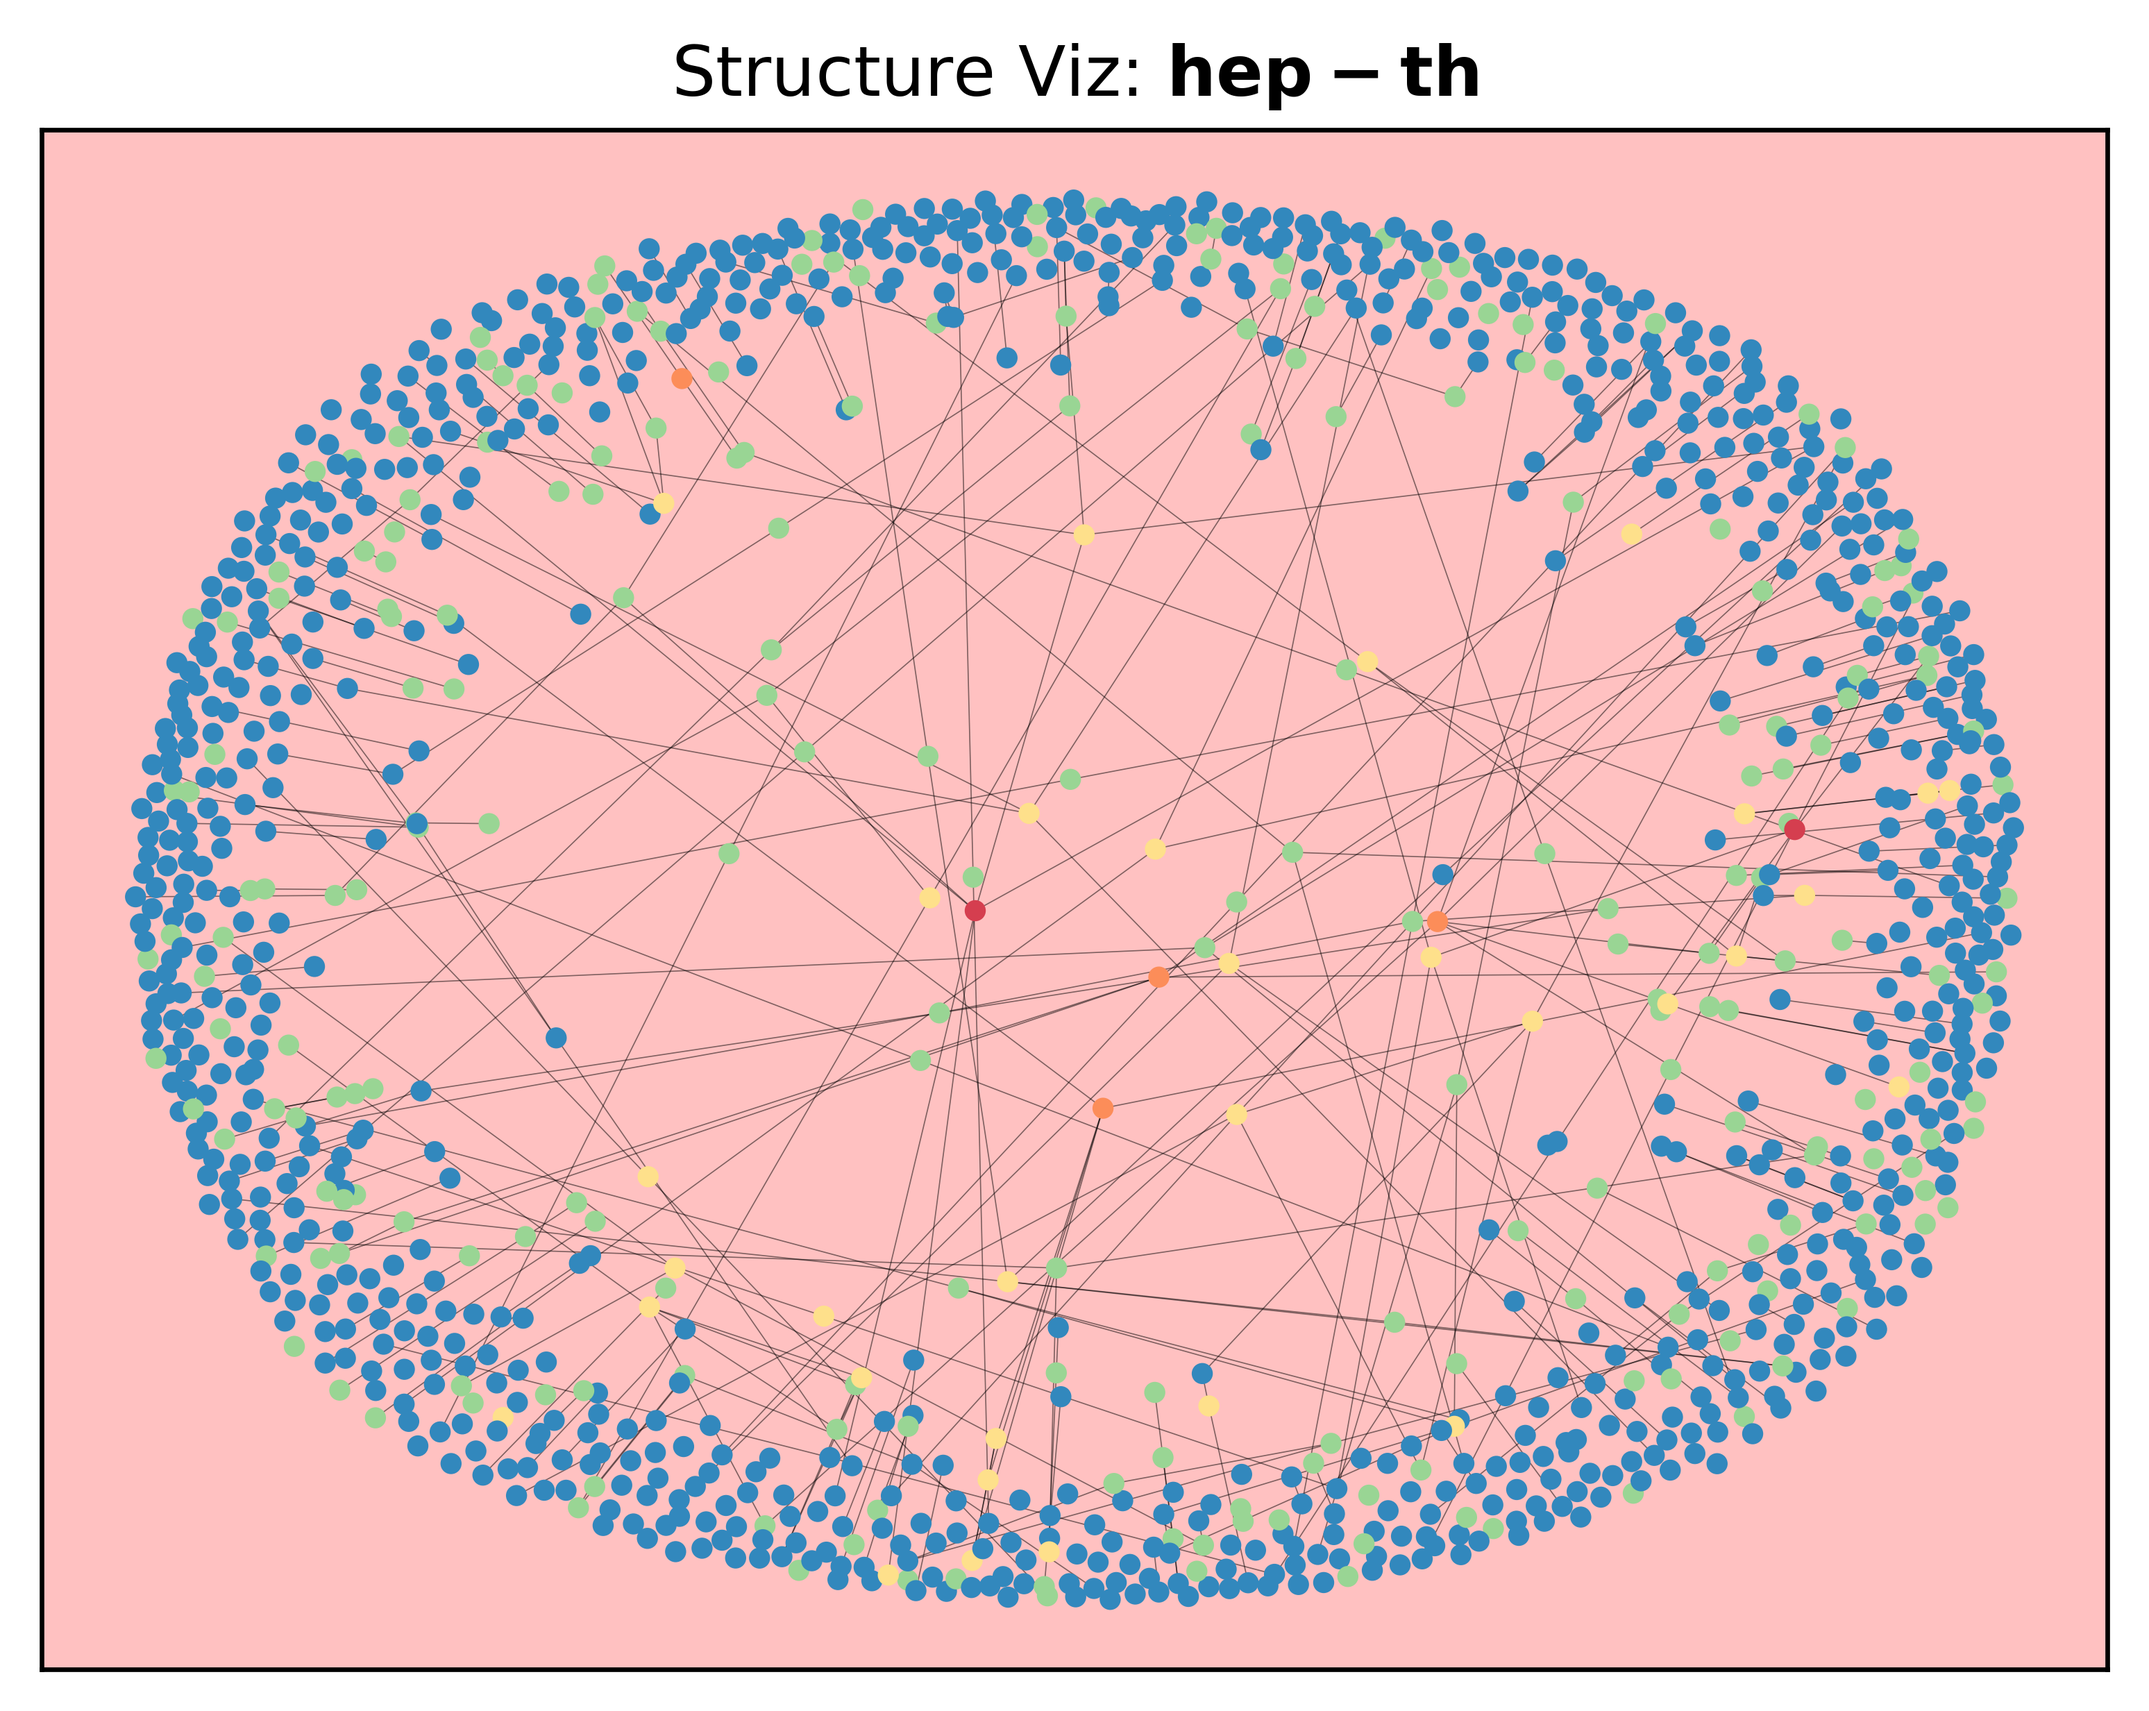
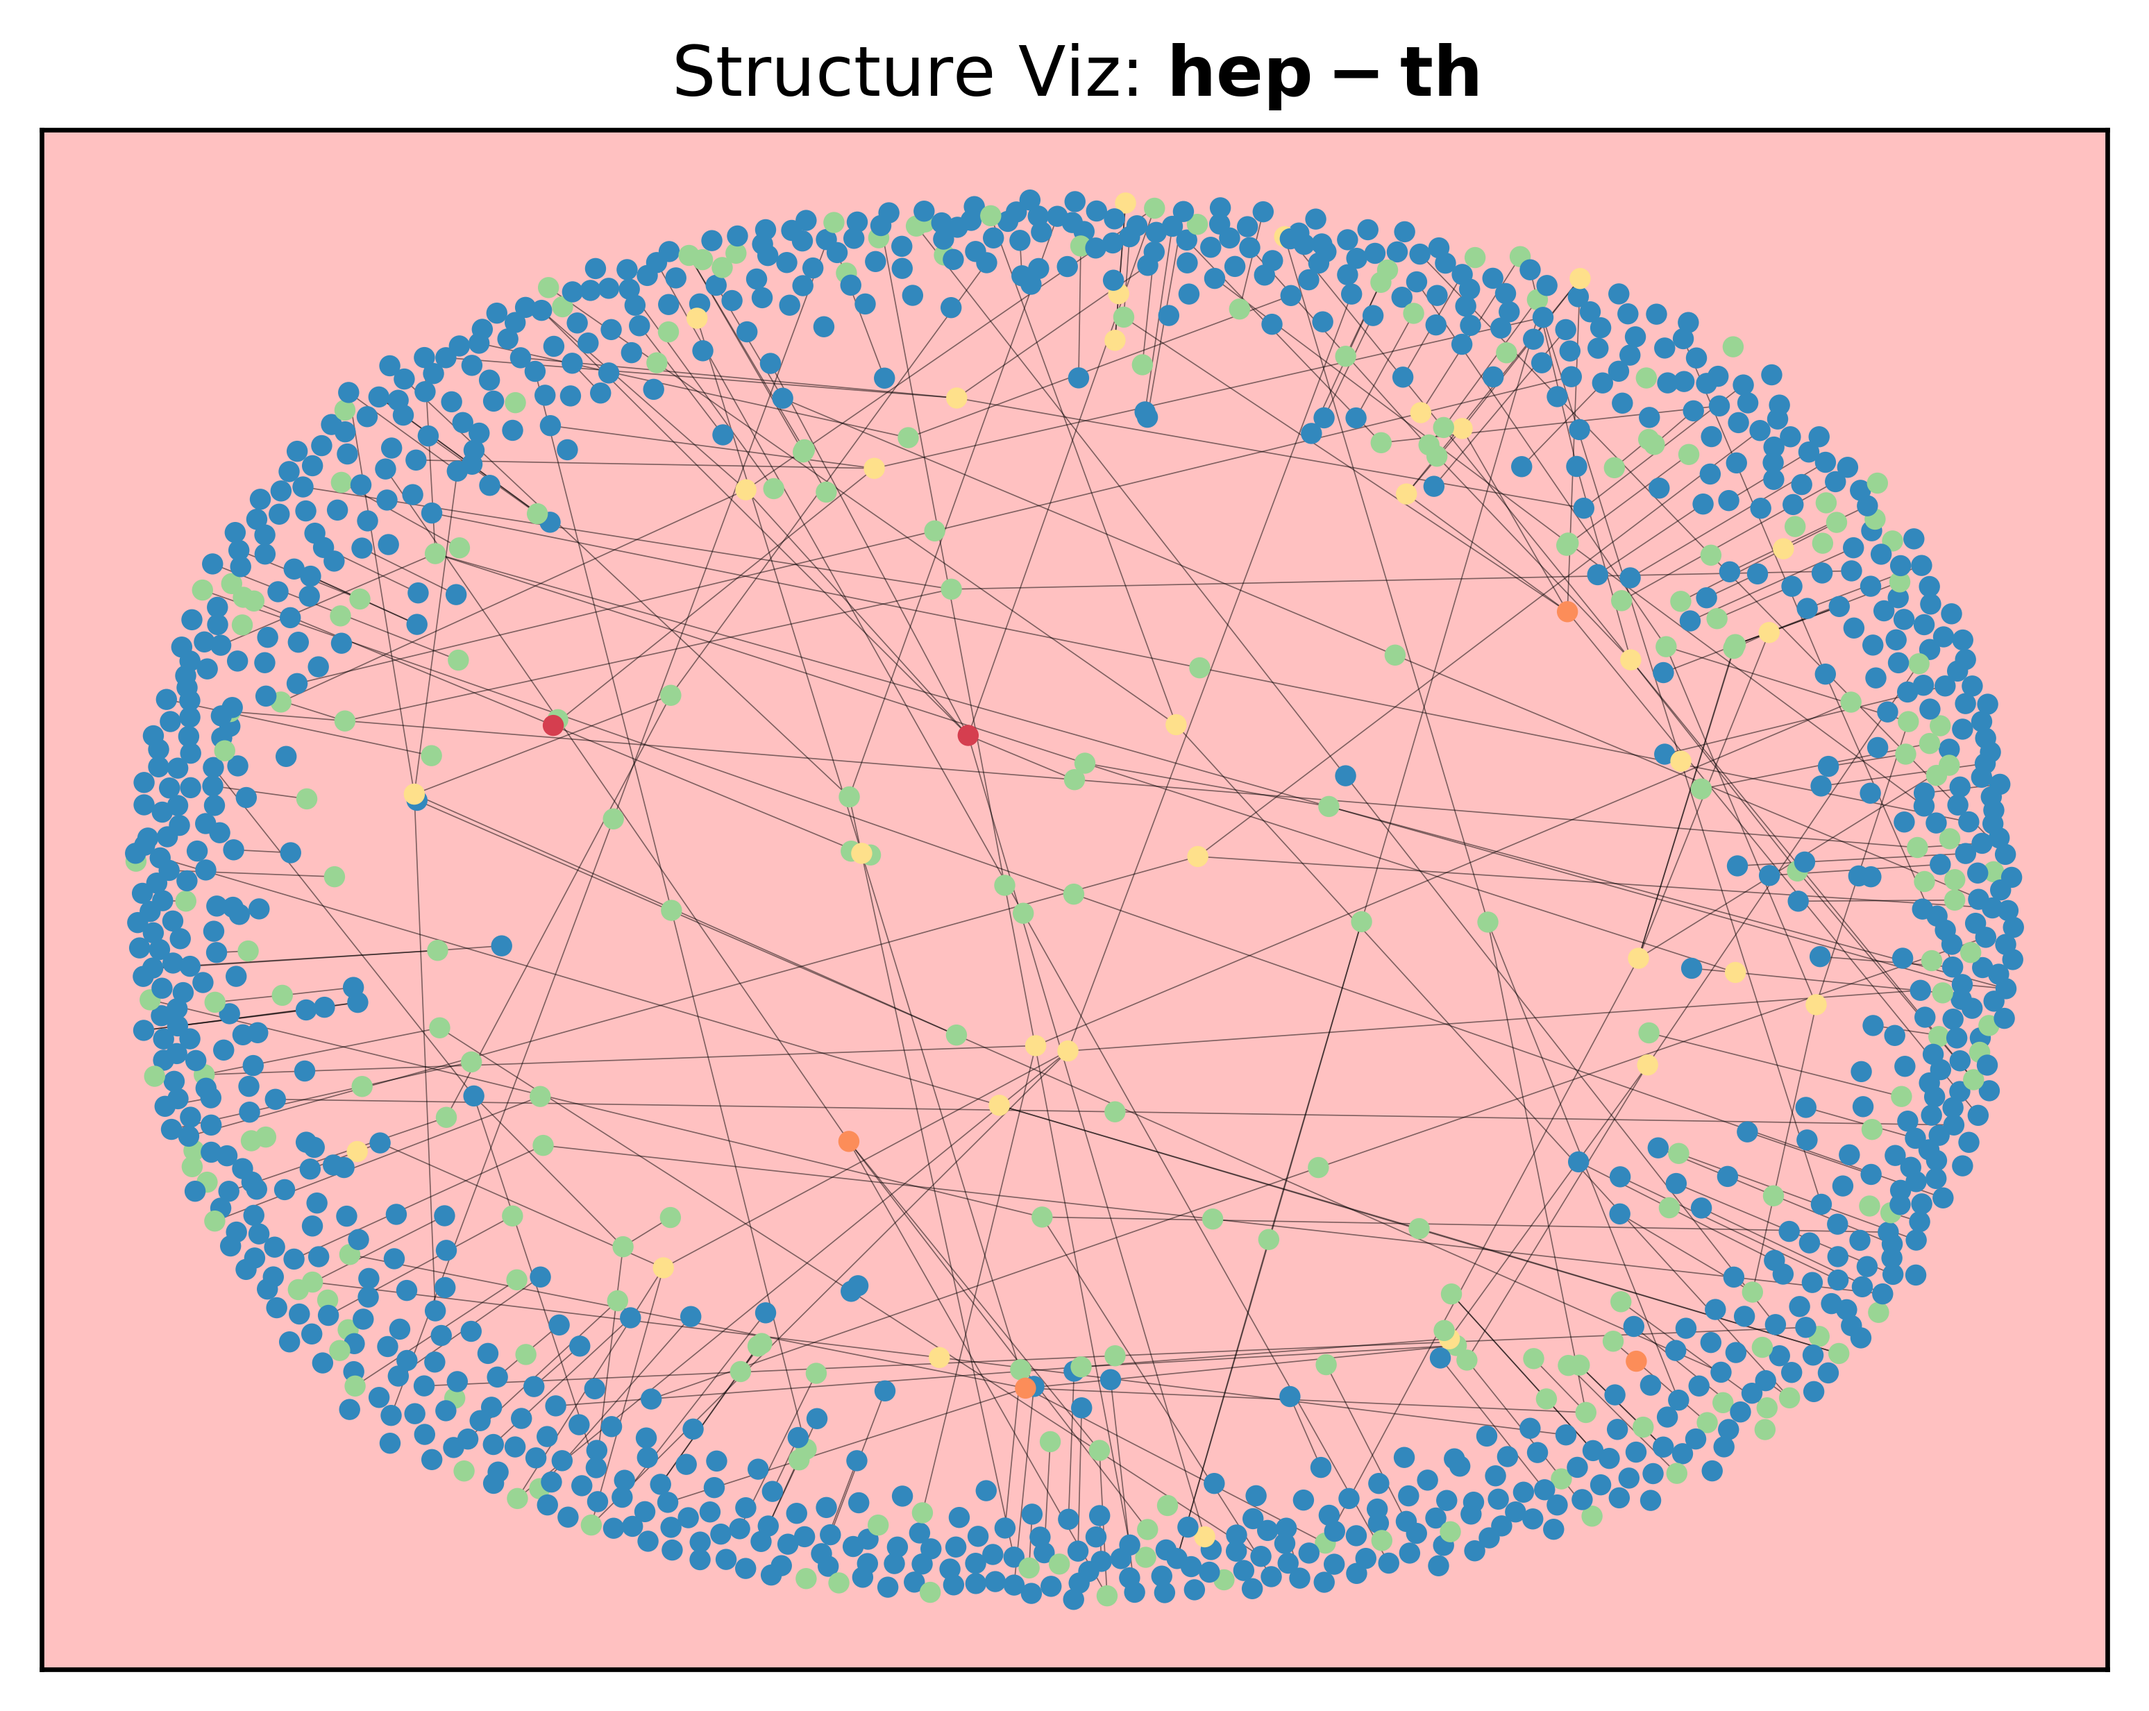
project: graph viz

Changed region(s): [[0.062, 0.0937, 0.9612, 0.9371]]

diff --git a/deliverables/graphMeta.py b/deliverables/graphMeta.py
@@ -15,9 +15,9 @@ sample_ratio_dict = {
     "email.graph": 0.5,
     "power.graph": 0.2,
     "hep-th.graph": 0.15,
-    "star.graph": 0.1,
-    "star2.graph": 0.1,
     "as-22july06.graph": 0.1,
+    "star.graph": 0.1,
+    "star2.graph": 0.08,
 }
 
 layout_dict = {
@@ -29,7 +29,6 @@ layout_dict = {
     "star2.graph": "kamada",
     "as-22july06.graph": "fruchterman",
 }
-
 
 def structureVisualization(graphName):
     graph = readData(os.path.join(graphDirectory, graphName))
@@ -73,7 +72,7 @@ def structureVisualization(graphName):
     pos_dict = {"spring": nx.spring_layout, "kamada": nx.kamada_kawai_layout, "fruchterman": nx.fruchterman_reingold_layout}
 
     pos = layout_dict[graphName]
-    parameter = {"G": graphNX, "scale": 3}
+    parameter = {"G": graphNX, "scale": 4}
     graph_pos = pos_dict[pos](**parameter)
     nx.draw_networkx_nodes(graphNX, graph_pos, node_size=options["node_size"],
                            alpha=options["node_alpha"], node_color=[colorMapping(len(adjacent_matrix[node])) for node in graphNX])
